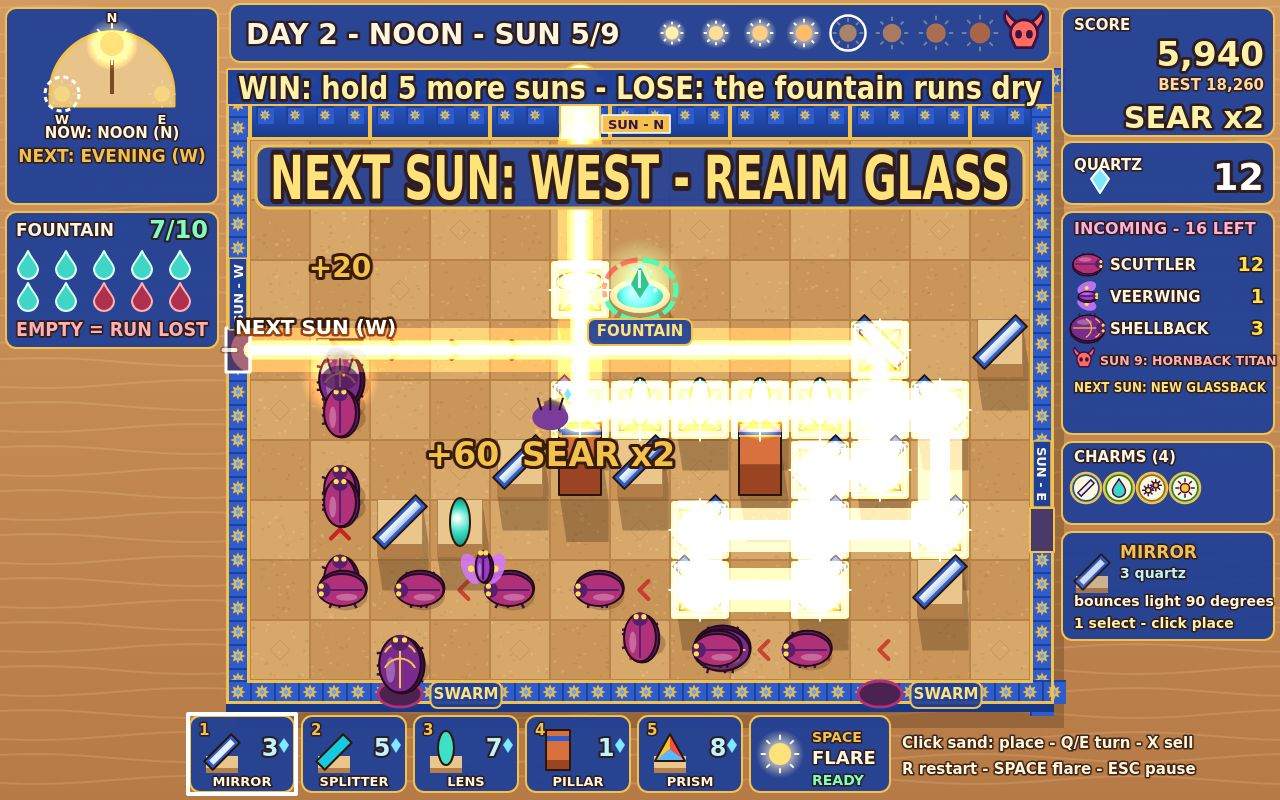
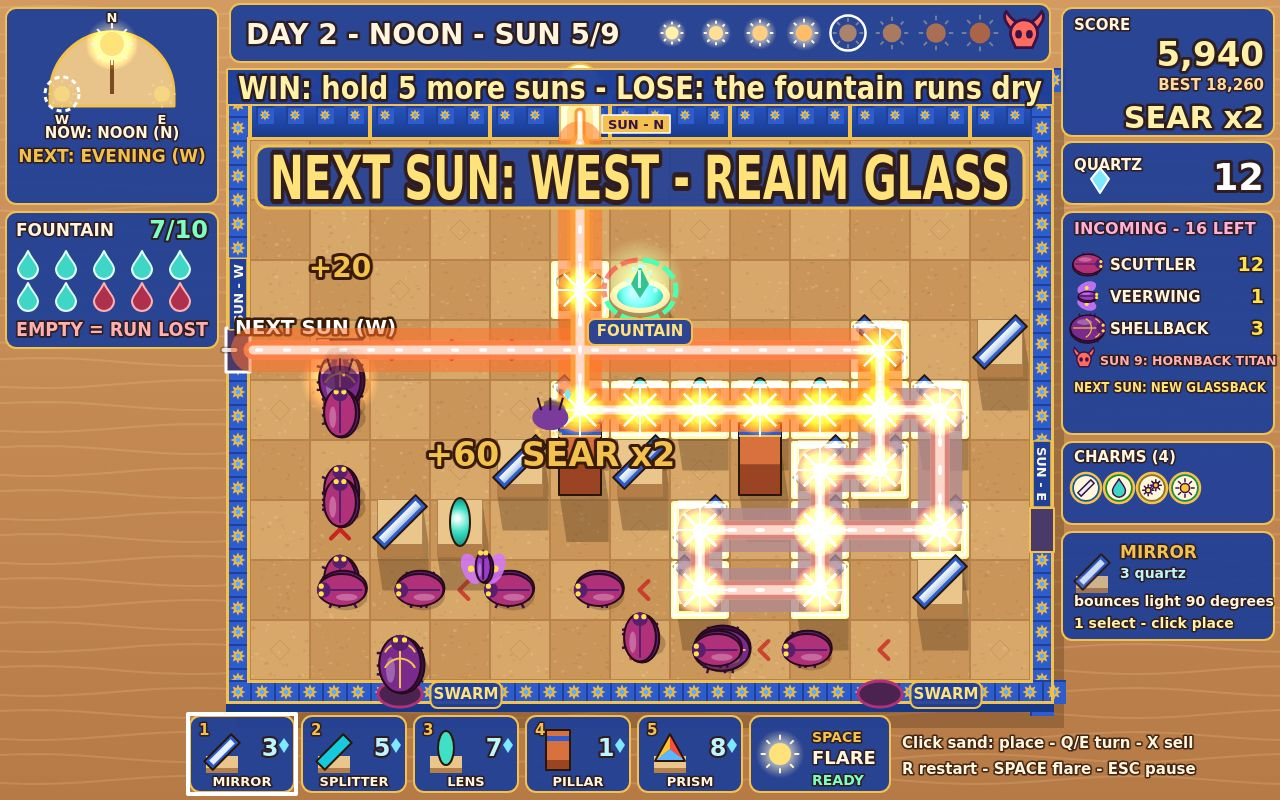
Beams on their own normally-blended layer so crossings keep a gold glow, orange edge and white core; photon dashes flowing out from the sun; softer starbursts; blown-block count in measure-shots

Changed region(s): [[0.1562, 0.25, 0.75, 0.7812], [0.4375, 0.125, 0.4688, 0.1875]]

diff --git a/game/src/render/fx.js b/game/src/render/fx.js
@@ -163,7 +163,7 @@ function drawStarburst(ctx, x, y, r, alpha) {
 }
 
 /** Glow, halo and core widths and alphas of a beam. */
-const BEAM_PASSES = [[26, 0.18], [11, 0.55], [5, 0.95]];
+const BEAM_PASSES = [[26, 0.32], [11, 0.75], [5, 0.95]];
 /** Glow / halo / core colours per tint: sunlight, red (1), blue (2), gold (4). */
 const TINT_COLORS = {
   0: ['rgba(255,197,49,', 'rgba(255,128,24,', 'rgba(255,251,230,'],
@@ -180,25 +180,62 @@ const FOCUS_COLORS = ['rgba(255,120,40,', 'rgba(255,160,60,', 'rgba(255,251,230,
 export function drawBeams(ctx, trace, opts) {
   const alpha = opts.alpha ?? 1;
   const surge = 1 + (opts.flare ?? 0) * 0.3;
-  ctx.save();
-  ctx.globalCompositeOperation = 'lighter';
-  ctx.lineCap = 'round';
+  // Beams go onto their own layer with normal blending, so crossings keep a gold glow, an orange
+  // edge and a white core instead of adding up to a white blot; the layer then lies over the scene.
+  const layer = beamLayer(ctx);
+  const g = layer.getContext('2d');
+  g.setTransform(1, 0, 0, 1, 0, 0);
+  g.clearRect(0, 0, layer.width, layer.height);
+  g.setTransform(ctx.getTransform());
+  g.lineCap = 'round';
   for (let pass = 0; pass < 3; pass++) {
     const [width, a] = BEAM_PASSES[pass];
     for (const leg of trace.legs) {
       const w = Math.min(1.7, Math.max(0.5, Math.sqrt(leg.power / 10))) * surge;
       const colors = leg.focused && pass < 2 ? FOCUS_COLORS : TINT_COLORS[leg.tint] ?? TINT_COLORS[0];
-      ctx.strokeStyle = `${colors[pass]}${a * alpha})`;
-      ctx.lineWidth = width * w;
-      ctx.beginPath();
-      ctx.moveTo(toScreenX(leg.x0), toScreenY(leg.y0));
-      ctx.lineTo(toScreenX(leg.x1), toScreenY(leg.y1));
-      ctx.stroke();
+      g.strokeStyle = `${colors[pass]}${a})`;
+      g.lineWidth = width * w;
+      g.beginPath();
+      g.moveTo(toScreenX(leg.x0), toScreenY(leg.y0));
+      g.lineTo(toScreenX(leg.x1), toScreenY(leg.y1));
+      g.stroke();
     }
   }
-  const twinkle = 0.85 + Math.sin((opts.time ?? 0) * 7) * 0.15;
-  for (const b of trace.bursts) drawStarburst(ctx, toScreenX(b.x), toScreenY(b.y), 24 * Math.min(1.3, Math.max(0.7, Math.sqrt(b.power / 10))) * twinkle, 0.85 * alpha);
+  // Photons: bright dashes flowing along each leg, away from the sun.
+  g.setLineDash([5, 23]);
+  g.lineDashOffset = -(opts.time ?? 0) * 140;
+  g.strokeStyle = 'rgba(255,255,255,0.95)';
+  g.lineWidth = 3;
+  for (const leg of trace.legs) {
+    g.beginPath();
+    g.moveTo(toScreenX(leg.x0), toScreenY(leg.y0));
+    g.lineTo(toScreenX(leg.x1), toScreenY(leg.y1));
+    g.stroke();
+  }
+  g.setLineDash([]);
+  ctx.save();
+  ctx.setTransform(1, 0, 0, 1, 0, 0);
+  ctx.globalAlpha = alpha;
+  ctx.drawImage(layer, 0, 0);
   ctx.restore();
+  ctx.save();
+  ctx.globalCompositeOperation = 'lighter';
+  const twinkle = 0.85 + Math.sin((opts.time ?? 0) * 7) * 0.15;
+  for (const b of trace.bursts) drawStarburst(ctx, toScreenX(b.x), toScreenY(b.y), 22 * Math.min(1.25, Math.max(0.7, Math.sqrt(b.power / 10))) * twinkle, 0.55 * alpha);
+  ctx.restore();
+}
+
+let beamCanvas = null;
+
+/** The offscreen beam layer, matched to the main canvas's backing size. */
+function beamLayer(ctx) {
+  const { width, height } = ctx.canvas;
+  if (!beamCanvas || beamCanvas.width !== width || beamCanvas.height !== height) {
+    beamCanvas = document.createElement('canvas');
+    beamCanvas.width = width;
+    beamCanvas.height = height;
+  }
+  return beamCanvas;
 }
 
 /** Where the first ray of a trace ends (follow legs end to start from the opening). */

diff --git a/NOTES.md b/NOTES.md
@@ -135,6 +135,11 @@
 - Benchmark 3 item 7: identity colours + 2 px dark outlines - silver mirror in a lapis frame, cyan
   splitter, aqua lens, terracotta pillar, rainbow prism; the hotbar icons match.
 
+- Benchmark 3 item 10: beams drawn on their own layer with normal blending (gold glow 0.32, orange
+  edge 0.75, white core), so crossings no longer add up to white blots; photon dashes flow along each
+  leg away from the sun; starbursts softer. measure-shots counts near-white 32 px blocks on the board
+  (cover 5, from starburst centres; draft/results count their parchment plaques).
+
 ## Next
 - M3 feel (rest): hit-stop-like pop on SEAR steps, fountain pip crack, quartz counter pulse,
   colour-blind beam patterns (option), How to play illustrated panels.
